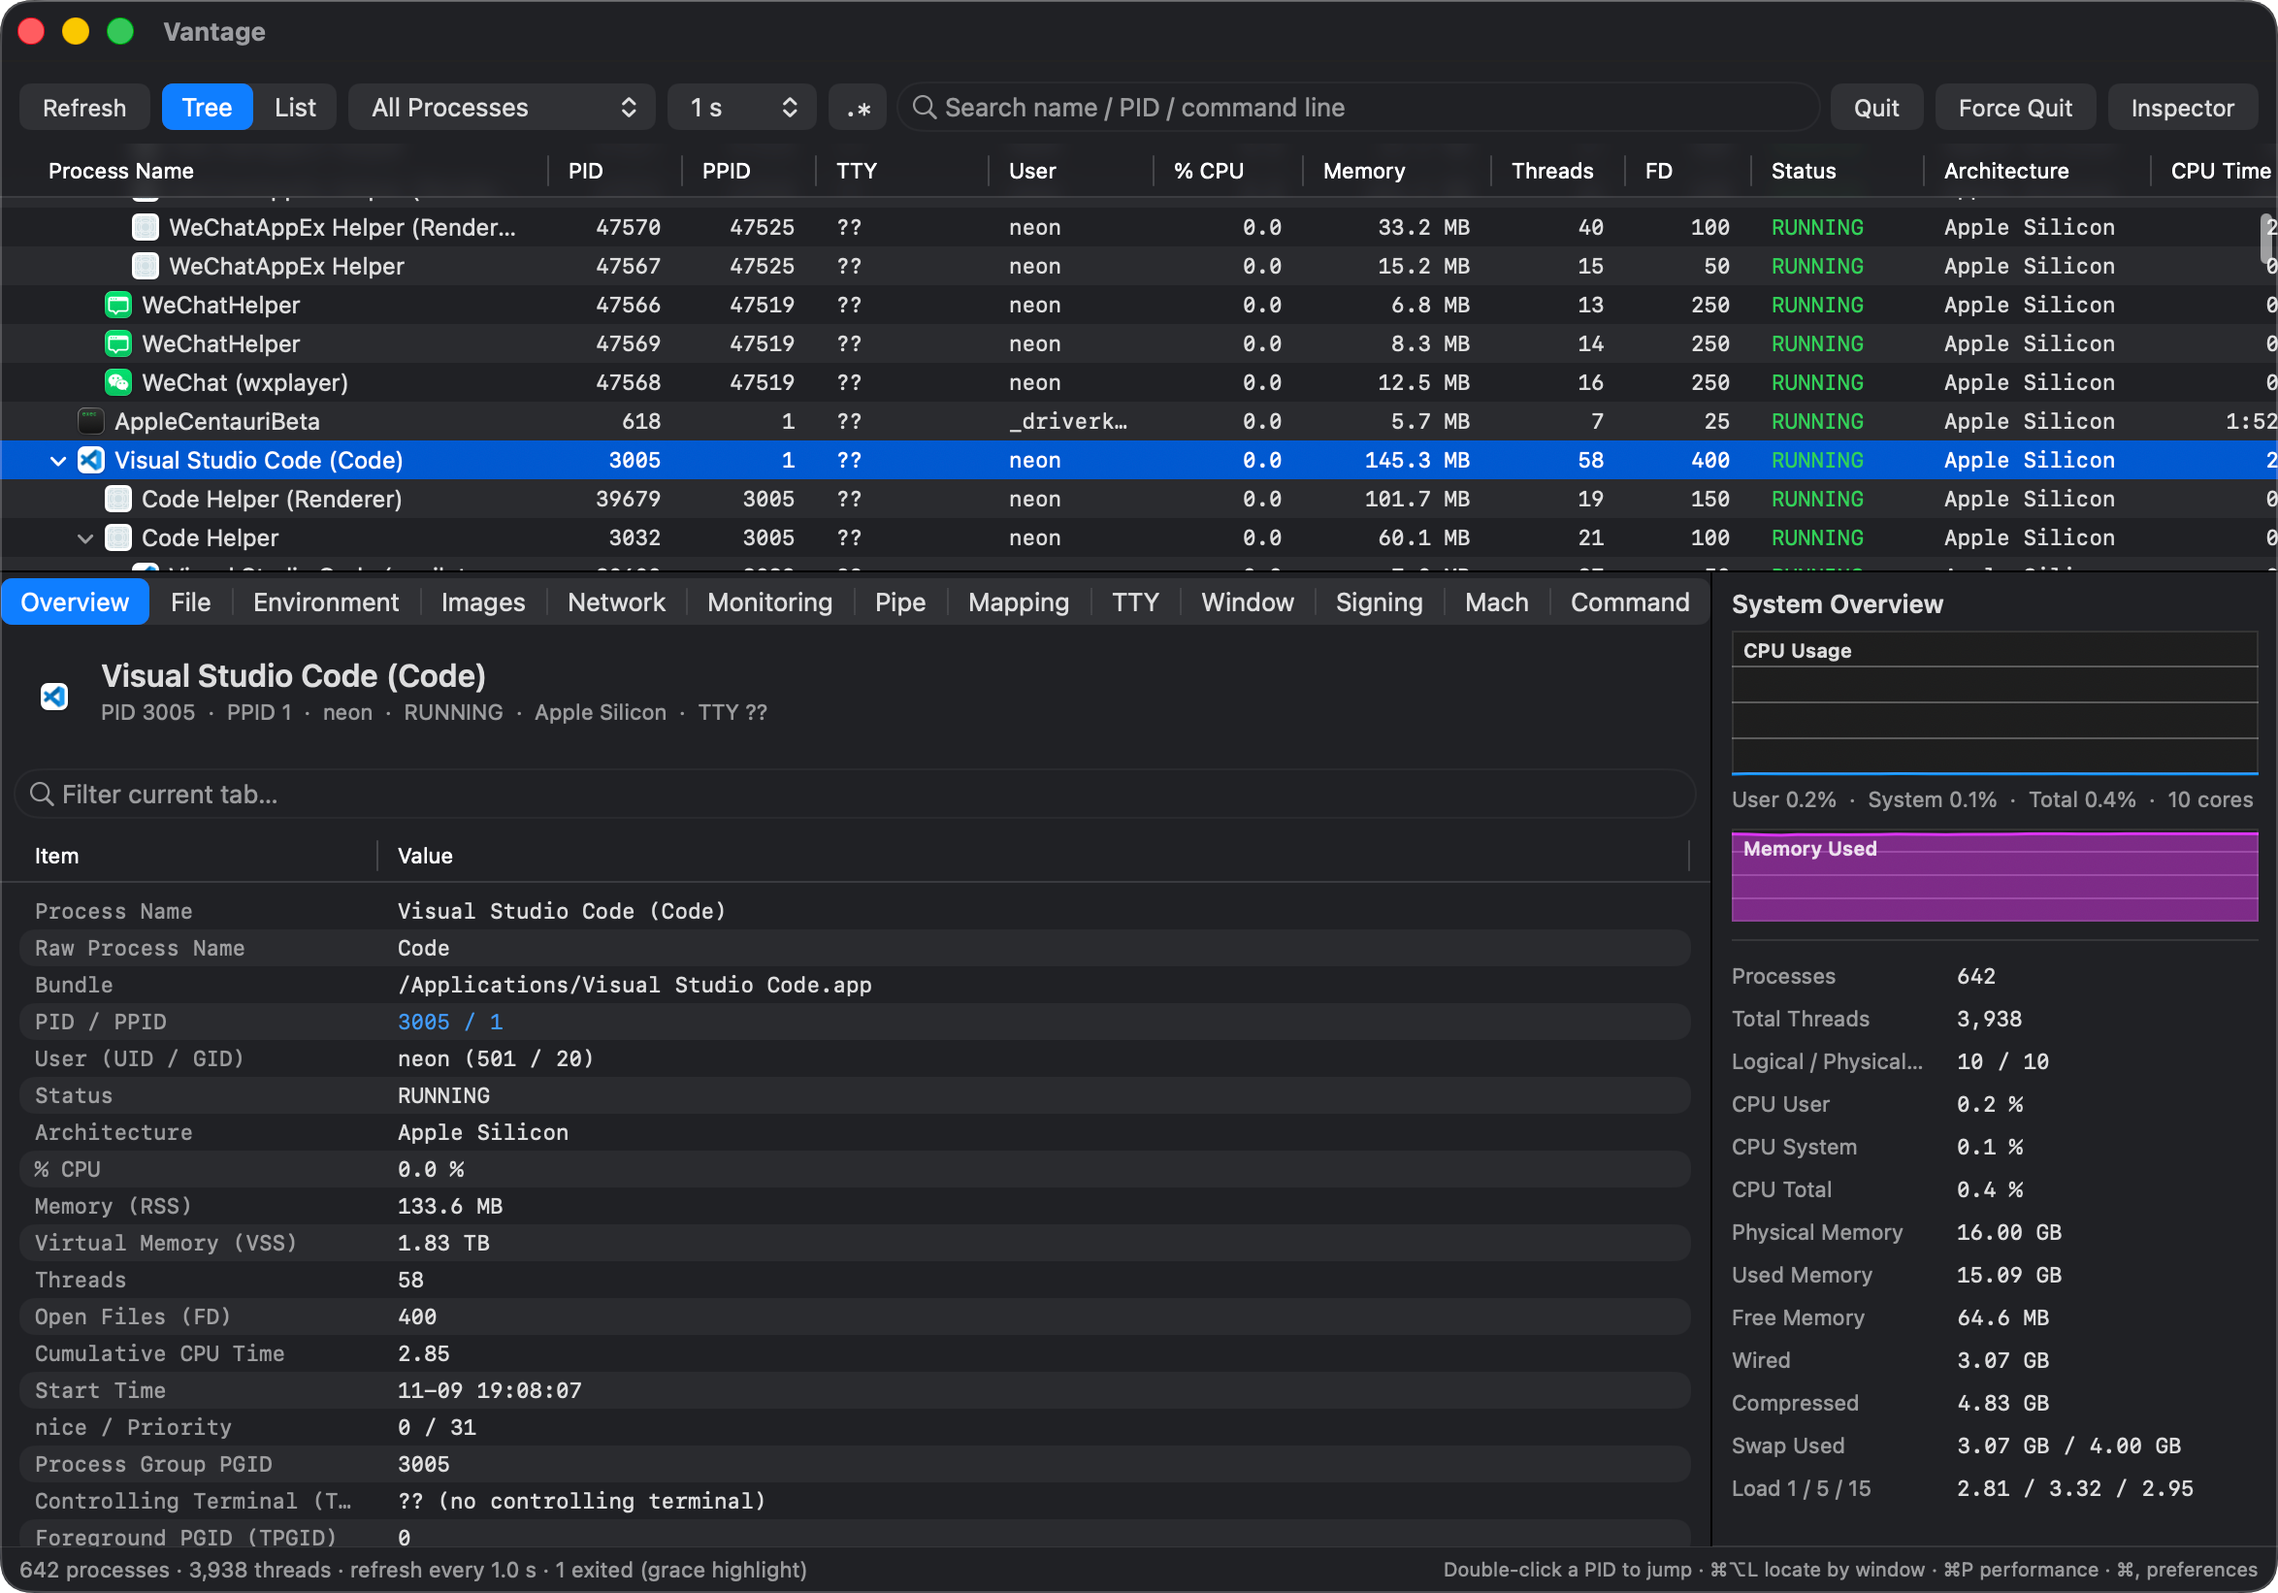
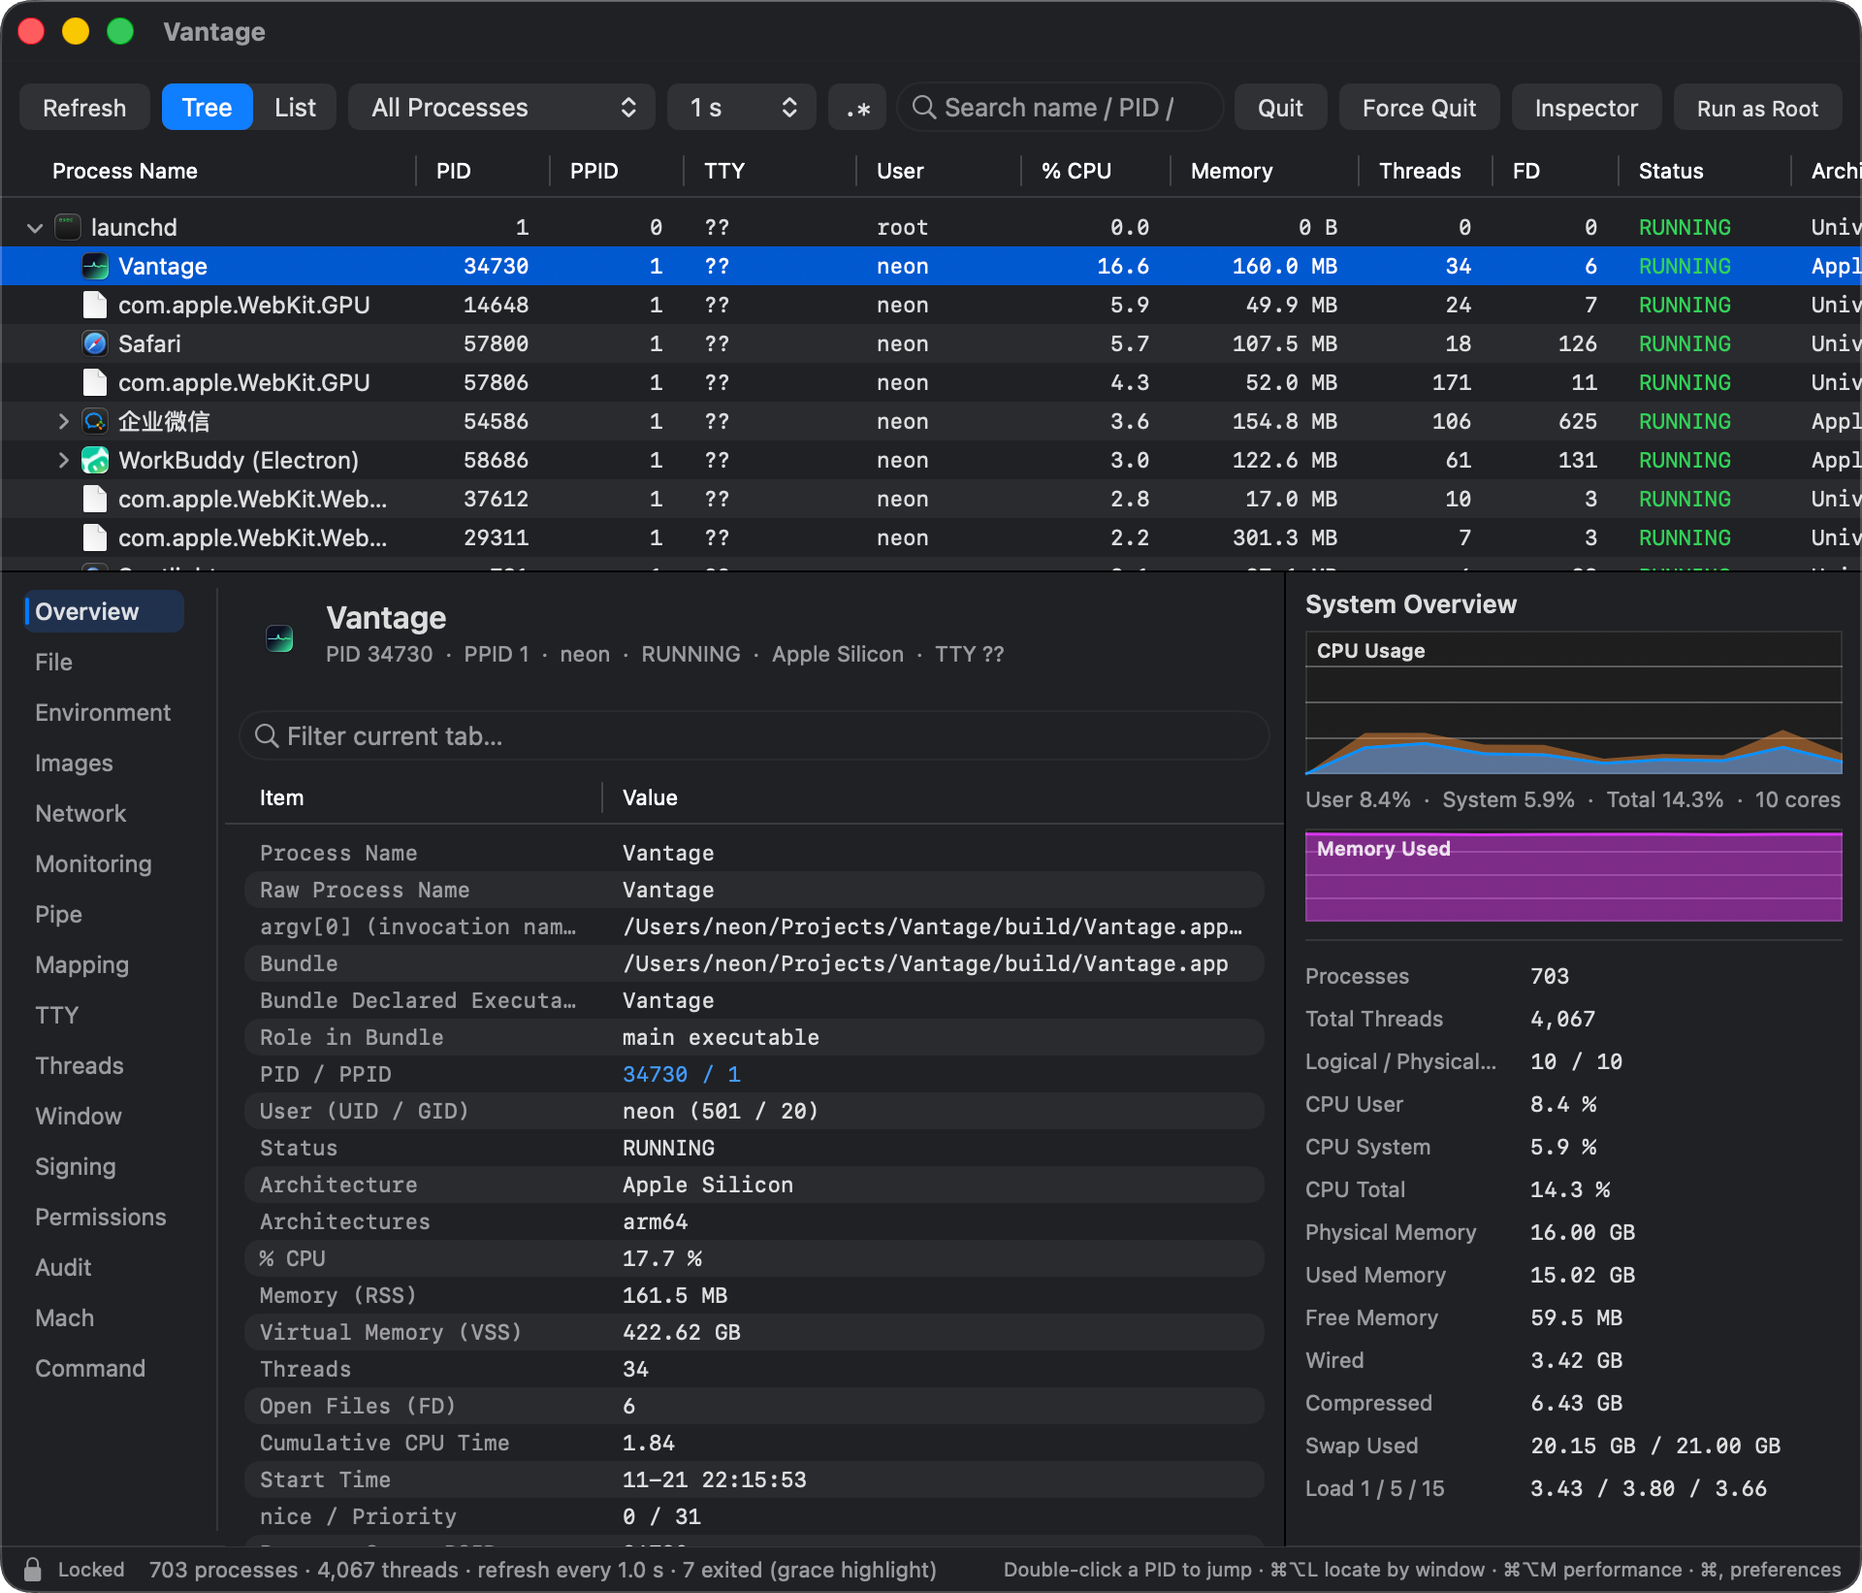
feat: fix inspector for kernel_task information and update version to 1.2.4

diff --git a/Sources/Vantage/ProcessListViewController.swift b/Sources/Vantage/ProcessListViewController.swift
@@ -107,7 +107,10 @@ final class ProcOutlineView: NSOutlineView {
 
     /// 右键那一行的进程信息。菜单动作直接用它，不依赖「当前选中行」——
     /// 避免刷新 / 多选 / 键盘呼出菜单时把信号发到别的进程。
-    private(set) var contextPID: Int32 = 0
+    ///
+    /// 用 `Int32?` 而不是 `0` 表示「没点在某一行上」：PID 0 是真实进程
+    /// （kernel_task），拿 0 当哨兵会让它被当成「未选中」。
+    private(set) var contextPID: Int32?
     private(set) var contextName = ""
     private(set) var contextExited = false
 
@@ -121,7 +124,7 @@ final class ProcOutlineView: NSOutlineView {
             contextExited = n.proc.isExited
             selectRowIndexes(IndexSet(integer: r), byExtendingSelection: false)
         } else {
-            contextPID = 0
+            contextPID = nil
             contextName = ""
             contextExited = false
         }
@@ -716,14 +719,16 @@ final class ProcessListViewController: NSViewController,
     func menuNeedsUpdate(_ menu: NSMenu) {
         guard menu === contextMenu else { return }
 
-        let pid = outline.contextPID > 0
-            ? outline.contextPID : (AppContext.shared.selectedPID ?? 0)
-        let name = outline.contextPID > 0 ? outline.contextName
+        // 右键行优先，其次当前选中行；两者都没有才是「没目标」。
+        // PID 0（kernel_task）是合法目标，所以用可选值而不是 > 0 判断。
+        let pid: Int32? = outline.contextPID ?? AppContext.shared.selectedPID
+        let name = outline.contextPID != nil ? outline.contextName
             : (AppContext.shared.selectedProcess()?.displayLabel ?? "")
-        let exited = outline.contextPID > 0
+        let exited = outline.contextPID != nil
             ? outline.contextExited
             : (AppContext.shared.selectedProcess()?.isExited ?? false)
-        let hasTarget = pid > 0 && !exited
+        // 发信号要求 pid > 0：kill(0, sig) 会发给整个进程组，绝不能落到内核那一行
+        let canSignal = (pid ?? 0) > 0 && !exited
 
         menu.removeAllItems()
         func add(_ title: String, _ sel: Selector,
@@ -735,45 +740,46 @@ final class ProcessListViewController: NSViewController,
             menu.addItem(i)
         }
 
-        let header = NSMenuItem(title: pid > 0
-                                ? "\(name) · PID \(pid)\(exited ? L("list.exitedSuffix") : "")"
-                                : L("list.noProcessSelected"),
+        let header = NSMenuItem(title: pid.map {
+                                    "\(name) · PID \($0)\(exited ? L("list.exitedSuffix") : "")"
+                                } ?? L("list.noProcessSelected"),
                                 action: nil, keyEquivalent: "")
         header.isEnabled = false
         menu.addItem(header)
         menu.addItem(.separator())
 
         // 已退出的进程也能打开检查器：只看退出前那一帧的快照
-        add(L("list.openInspector"), #selector(menuInspector), enabled: pid > 0)
+        add(L("list.openInspector"), #selector(menuInspector), enabled: pid != nil)
         add(L("list.locateThisProcessByWindow"), #selector(menuLocateInMain),
-            enabled: hasTarget)
+            enabled: canSignal)
 
         menu.addItem(.separator())
-        add(L("list.quitProcessSigterm"), #selector(menuTerminate), enabled: hasTarget)
+        add(L("list.quitProcessSigterm"), #selector(menuTerminate), enabled: canSignal)
         add(L("list.forceQuitSigkill"), #selector(menuForceTerminate),
-            enabled: hasTarget)
-        add(L("list.pauseResume"), #selector(menuSuspend), enabled: hasTarget)
+            enabled: canSignal)
+        add(L("list.pauseResume"), #selector(menuSuspend), enabled: canSignal)
 
         // 「发送信号」子菜单：内容由偏好的勾选决定
         let signalItem = NSMenuItem(title: L("list.sendSignal2"), action: nil,
                                     keyEquivalent: "")
         signalItem.submenu = signalSubmenu
-        signalItem.isEnabled = hasTarget
+        signalItem.isEnabled = canSignal
         menu.addItem(signalItem)
-        SignalMenuBuilder.fill(signalSubmenu, pid: pid, name: name)
-        if !hasTarget {
+        // 菜单项携带的 PID 必须是真实目标；没有目标时填 0 也不会被启用（下面全禁用）
+        SignalMenuBuilder.fill(signalSubmenu, pid: pid ?? 0, name: name)
+        if !canSignal {
             for i in signalSubmenu.items { i.isEnabled = false }
         }
 
         menu.addItem(.separator())
-        add(L("list.revealInFinder"), #selector(menuReveal), enabled: hasTarget)
+        add(L("list.revealInFinder"), #selector(menuReveal), enabled: canSignal)
         add(L("list.samplingS", Preferences.shared.sampleSeconds),
-            #selector(menuSample), enabled: hasTarget)
+            #selector(menuSample), enabled: canSignal)
 
         menu.addItem(.separator())
-        add(L("list.copyPid"), #selector(menuCopyPID), enabled: pid > 0)
-        add(L("list.copyFullCommandLine"), #selector(menuCopyCmd), enabled: hasTarget)
-        add(L("list.copyExecutablePath"), #selector(menuCopyExe), enabled: hasTarget)
+        add(L("list.copyPid"), #selector(menuCopyPID), enabled: pid != nil)
+        add(L("list.copyFullCommandLine"), #selector(menuCopyCmd), enabled: canSignal)
+        add(L("list.copyExecutablePath"), #selector(menuCopyExe), enabled: canSignal)
 
         menu.addItem(.separator())
         let prefItem = NSMenuItem(title: L("list.configureMenuSignals"),
@@ -784,15 +790,14 @@ final class ProcessListViewController: NSViewController,
     }
 
     @objc private func menuInspector()       {
-        let pid = outline.contextPID > 0
-            ? outline.contextPID : (AppContext.shared.selectedPID ?? 0)
-        guard pid > 0 else { return }
+        guard let pid = outline.contextPID ?? AppContext.shared.selectedPID
+        else { return }
         AppContext.shared.showInspector(for: pid)
     }
     @objc private func menuLocateInMain()    {
-        let pid = outline.contextPID > 0
-            ? outline.contextPID : (AppContext.shared.selectedPID ?? 0)
-        guard pid > 0 else { return }
+        // 按窗口定位要求 pid > 0：kernel_task 没有窗口，locateProcess 也只接受正 PID
+        guard let pid = outline.contextPID ?? AppContext.shared.selectedPID,
+              pid > 0 else { return }
         AppContext.shared.locateProcess(pid)
     }
     @objc private func menuTerminate()       { AppContext.shared.terminate(force: false) }

diff --git a/Sources/Vantage/DetailViewControllers.swift b/Sources/Vantage/DetailViewControllers.swift
@@ -1568,7 +1568,10 @@ final class DetailTabViewController: NSTabViewController {
     }
 
     func reload(force: Bool = false) {
-        guard let pid = currentPID, pid > 0 else {
+        // PID 0 是合法的进程（kernel_task），不能用 0 当「没选中」的哨兵：
+        // 那样点它只会得到「未选择进程」。真正的「没选中」由 currentPID == nil
+        // 表达，所以这里判 nil 而不是判 > 0。
+        guard let pid = currentPID, pid >= 0 else {
             showEmpty()
             return
         }
@@ -1608,6 +1611,25 @@ final class DetailTabViewController: NSTabViewController {
         // 轻量页立即出内容，不等后台队列
         overview.setSnapshot(snap, port: exited ? nil : cachedPort(pid: pid, force: force))
         command.set(text: commandText(pid: pid, snap: snap))
+
+        // kernel_task（PID 0）：它是内核本身，没有 BSD 进程结构。
+        // 概览 / 命令页照常用快照渲染（名称、所有者、启动时间、架构都有），
+        // 其余页签统一给一句说明 —— 否则每页都是一屏「Operation not permitted
+        // · 进程可能已退出」，而它明明就在跑，看起来像坏了。
+        if pid == 0 {
+            lastPID = pid
+            loadedKeys.removeAll()
+            pendingLocate = nil
+            // 用 showHint 而不是 showPlaceholder：后者保持原列宽、把文字塞进
+            // 第一列会被截断（File 页首列只有 ~170pt）。这条说明是永久的
+            // （PID 0 永远不会有 FD / 环境变量），值得占两列完整显示。
+            for vc in [files, env, dylibs, sockets, monitoring, audit, mach,
+                       regions, pipePeers, tty, threads, windows, permissions] {
+                vc.showHint(L("detail.kernelTaskHasNoProcInfo"))
+            }
+            signing.showHint(L("detail.kernelTaskHasNoProcInfo"))
+            return
+        }
 
         if exited {
             // 退出前采过的页照原样回放；没采过的页直接留空（不显示「正在采集…」）

diff --git a/Sources/Vantage/L10nTable.swift b/Sources/Vantage/L10nTable.swift
@@ -103,6 +103,7 @@ enum L10nTable {
         "detail.item5": "项目",
         "detail.item6": "项目",
         "detail.jobControlState": "作业控制状态",
+        "detail.kernelTaskHasNoProcInfo": "内核自身，没有可显示的进程级数据",
         "detail.layer": "层",
         "detail.loadAddress": "加载地址",
         "detail.loadedWhenThisTabIs": "切换到本页时加载…",
@@ -1202,6 +1203,7 @@ enum L10nTable {
         "detail.item5": "Item",
         "detail.item6": "Item",
         "detail.jobControlState": "Job Control State",
+        "detail.kernelTaskHasNoProcInfo": "Kernel itself — no process-level data to show",
         "detail.layer": "Layer",
         "detail.loadAddress": "Load Address",
         "detail.loadedWhenThisTabIs": "Loaded when this tab is opened…",

diff --git a/Sources/Vantage/L10nKeys.swift b/Sources/Vantage/L10nKeys.swift
@@ -102,6 +102,7 @@ enum L10nKey {
     static let detailItem5 = "detail.item5"
     static let detailItem6 = "detail.item6"
     static let detailJobControlState = "detail.jobControlState"
+    static let detailKernelTaskHasNoProcInfo = "detail.kernelTaskHasNoProcInfo"
     static let detailLayer = "detail.layer"
     static let detailLoadAddress = "detail.loadAddress"
     static let detailLoadedWhenThisTabIs = "detail.loadedWhenThisTabIs"

diff --git a/Tools/l10n_master.py b/Tools/l10n_master.py
@@ -82,6 +82,7 @@ MASTER = {
     'detail.doubleClickToOpenThe': ('双击打开 PID 对应的进程检查器', "Double-click to open the PID's inspector"),
     'detail.endAddress': ('结束地址', 'End Address'),
     'detail.exitedNothingCollected': ('进程已退出，退出前没有采集过这一页。', 'The process has exited and this tab was never collected.'),
+    'detail.kernelTaskHasNoProcInfo': ('内核自身，没有可显示的进程级数据', 'Kernel itself — no process-level data to show'),
     'detail.stateExited': ('已退出', 'Exited'),
     'detail.enumeratingLoadedImages': ('正在枚举已加载镜像…', 'Enumerating loaded images…'),
     'detail.enumeratingMemoryMappings': ('正在枚举内存映射…', 'Enumerating memory mappings…'),

diff --git a/docs/PUBLISHING.md b/docs/PUBLISHING.md
@@ -17,14 +17,14 @@
 | `Packaging/Info.plist` → `NSHumanReadableCopyright` | `Copyright © 2026 nanacaret. Licensed under MIT.` |
 | README 版权行 | `© 2026 nanacaret` |
 | `Packaging/Info.plist` → `CFBundleIdentifier` | `io.github.nanacaret.Vantage`（按 GitHub 组织的反向域名惯例） |
-| `Packaging/Info.plist` → `CFBundleShortVersionString` / `CFBundleVersion` | `1.2.3` / `1.2.3` |
+| `Packaging/Info.plist` → `CFBundleShortVersionString` / `CFBundleVersion` | `1.2.4` / `1.2.4` |
 
 全仓库已无仓库地址占位符。若组织改用自有域名，可把 Bundle ID 换成对应反向域名；
 **改 ID 会让已保存的偏好、配色、列宽与窗口位置重置一次**，在已有分发产物时应先权衡。
 `Packaging/Info.plist` 的 `NSAccessibilityUsageDescription` 为中英双语文案，
 可按需本地化到 `InfoPlist.strings`。
 
-版本号目前为 `1.2.3`（`CFBundleShortVersionString` 与 `CFBundleVersion` 一致）。
+版本号目前为 `1.2.4`（`CFBundleShortVersionString` 与 `CFBundleVersion` 一致）。
 发新版时只改 `Packaging/Info.plist`，再 push 一个 `v*` tag 触发正式 Release；
 DMG 文件名里的版本号取自 tag，不需要另外配置。
 
